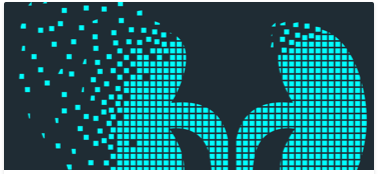
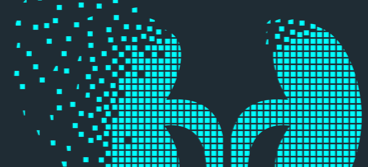
index fonts and spacings finished

diff --git a/pages/list.html b/pages/list.html
@@ -123,7 +123,7 @@
                 <div class="card card-sidenav">
                   <div class="card-body">
                     <img src="../img/details/statistics.png">
-                    <p class="card-title">Activity</p>
+                    <p class="card-title">Activity <span class="w3-badge">9</span> </p>
                   </div>
                 </div>
               </div>
@@ -158,18 +158,18 @@
           <table class="table">
             <thead>
               <tr>
-                <th> <img class="checkbox" src="../img/list/checkbox-on.png">  </th>
-                <th>Site</th>
-                <th>Email</th>
-                <th>Country</th>
-                <th>City</th>
-                <th class="center">Status</th>
+                <th> <img class="checkbox-top" src="../img/list/checkbox-on.png"> </th>
+                <th>Site <img class="expand" src="../img/list/expand.png" /> </th>
+                <th>Email <img class="expand" src="../img/list/expand.png" /> </th>
+                <th>Country <img class="expand" src="../img/list/expand.png" /> </th>
+                <th>City <img class="expand" src="../img/list/expand.png" /> </th>
+                <th class="center">Status <img class="expand" src="../img/list/expand.png" /> </th>
               </tr>
             </thead>
             <tbody>
               <tr>
                 <th scope="row">
-                  <img class="checkbox" src="../img/list/checkbox-off.png" />
+                  <img class="checkbox" id="1" src="../img/list/checkbox-off.png" />
                 </th>
                 <td class="bold pointer" onclick="openNav()">Something important</td>
                 <td>somethingelse@test.se</td>
@@ -182,7 +182,7 @@
               </tr>
               <tr>
                 <th scope="row">
-                  <img class="checkbox" src="../img/list/checkbox-off.png" />
+                  <img class="checkbox" id="2" src="../img/list/checkbox-off.png" />
                 </th>
                 <td class="bold">Le Bull Hospital de soleil</td>
                 <td>something@test.se</td>
@@ -195,7 +195,7 @@
               </tr>
               <tr>
                 <th scope="row">
-                  <img class="checkbox" src="../img/list/checkbox-off.png" />
+                  <img class="checkbox" id="3" src="../img/list/checkbox-off.png" />
                 </th>
                 <td class="bold">Lestats hospital de la cheese</td>
                 <td> someemail@test.se</td>
@@ -208,7 +208,7 @@
               </tr>
               <tr>
                 <th scope="row">
-                  <img class="checkbox" src="../img/list/checkbox-off.png" />
+                  <img class="checkbox" id="4" src="../img/list/checkbox-off.png" />
                 </th>
                 <td class="bold"> London Hospital</td>
                 <td> sherlock@test.se</td>
@@ -221,7 +221,7 @@
               </tr>
               <tr>
                 <th scope="row">
-                  <img class="checkbox" src="../img/list/checkbox-off.png" />
+                  <img class="checkbox" id="5" src="../img/list/checkbox-off.png" />
                 </th>
                 <td class="bold"> London Hospital</td>
                 <td> sherlock@test.se</td>
@@ -234,7 +234,7 @@
               </tr>
               <tr>
                 <th scope="row">
-                  <img class="checkbox" src="../img/list/checkbox-off.png" />
+                  <img class="checkbox" id="6" src="../img/list/checkbox-off.png" />
                 </th>
                 <td class="bold"> Hospital Berlin </td>
                 <td> sherlock@test.se</td>
@@ -247,7 +247,7 @@
               </tr>
               <tr>
                 <th scope="row">
-                  <img class="checkbox" src="../img/list/checkbox-off.png" />
+                  <img class="checkbox" id="7" src="../img/list/checkbox-off.png" />
                 </th>
                 <td class="bold"> Hospital de la Rue </td>
                 <td> sherlock@test.se</td>

diff --git a/css/new-age.css b/css/new-age.css
@@ -67,11 +67,84 @@ button.rounded-corners {
   font-weight: bold;
 }
 
+/* font definitions */
 
 .uppercase {
   text-transform: uppercase;
   font-weight: bold;
 }
+
+/* first page */
+
+h1.main-title{
+  font-family: 'Poppins', sans-serif;
+  font-weight: 400;
+  font-size: 25pt;
+  margin-top: 30px;
+}
+
+h3.main-title{
+  font-family: 'Poppins', sans-serif;
+  font-weight: 300;
+  text-transform: uppercase;
+  font-size: 16pt;
+}
+
+
+div.header-content {
+  margin-top: 5%;
+  line-height: 1.7em;
+}
+
+div.header-content p{
+  font-family: 'Poppins', sans-serif;
+  line-height: 2em;
+  font-size: 12pt;
+  font-weight: 100;
+  margin-top: 30px;
+}
+
+div.header-content button {
+  margin-top: 30px;
+}
+
+
+div.second-header p {
+  font-family: 'Poppins', sans-serif;
+  line-height: 2em;
+  font-size: 12pt;
+  font-weight: 300;
+  margin-top: 30px;
+}
+
+div.second-header h1 {
+  font-weight: 500;
+}
+
+button.btn-transparent span.margin-left{
+  margin-left: 5%;
+}
+
+section.studies div.card h5{
+  font-family: 'Poppins', sans-serif;
+  color: grey;
+  text-transform: uppercase;
+  font-weight: 400;
+  font-size: 10pt;
+}
+
+section.studies div.card h4.card-title{
+  font-family: 'Poppins', sans-serif;
+  font-weight: 550;
+  font-size: 14pt!important;
+}
+
+section.studies div.card p.card-text {
+  margin-top: 15px;
+}
+
+
+
 
 .list-page {
   height: 600px;
@@ -123,6 +196,15 @@ span.upper {
 
 img.carousel-image {
   width: 100%;
+}
+
+div.studies-row div.card {
+  box-shadow: 0 1px 3px rgba(0,0,0,0.12), 0 1px 2px rgba(0,0,0,0.24);
+  transition: all 0.3s cubic-bezier(.25,.8,.25,1);
+}
+
+div.studies-row div.card:hover {
+  box-shadow: 0 3px 9px rgba(0,0,0,0.12), 0 3px 6px rgba(0,0,0,0.24);
 }
 
 .table {
@@ -272,6 +354,7 @@ div.black {
 }
 section.studies {
   background: url("../img/background/bg-part-2.png") no-repeat, white;
+  background-size: 100% auto;
 }
 
 .table thead th {
@@ -284,6 +367,7 @@ nav.nabar-blue {
 
 div.carousel {
   background: url('../img/carousel/carousel-bg.png') center;
+
   background-repeat: no-repeat;
   margin-top: 100px;
 }
@@ -301,12 +385,19 @@ img.flag {
   cursor: pointer;
 }
 
-img.checkbox, img.status-img {
+img.checkbox, img.status-img, img.checkbox-top {
   width: 20px;
+  cursor: pointer;
 }
 
 .center {
   text-align: center;
+}
+
+img.expand {
+  width: 7px;
+  margin-left: 5px;
+  margin-top: -1px;
 }
 
 /* Custom Cards */
@@ -354,8 +445,9 @@ img.list-img {
     font-family: 'Lato', 'Helvetica', 'Arial', 'sans-serif';
     letter-spacing: 2px;
     text-transform: uppercase;
-    margin-right: 15px;
-    margin-left: 15px;
+    margin-right: 30px;
+    margin-left: 30px;
+    font-weight: bold;
   }
     #mainNav .navbar-nav > li > a.active {
       color: #fdcc52 !important;
@@ -404,7 +496,7 @@ header.masthead {
   padding-bottom: 50px;
   color: white;
   background: url("../img/background/bg-part-1.png") no-repeat, white;
-  background-width: 100vw;
+  background-size: 100% auto;
   header.masthead .header-content {
     max-width: 500px;
     margin-bottom: 100px;

diff --git a/index.html b/index.html
@@ -22,6 +22,7 @@
     <link href="https://fonts.googleapis.com/css?family=Lato" rel="stylesheet">
     <link href="https://fonts.googleapis.com/css?family=Catamaran:100,200,300,400,500,600,700,800,900" rel="stylesheet">
     <link href="https://fonts.googleapis.com/css?family=Muli" rel="stylesheet">
+    <link href="https://fonts.googleapis.com/css?family=Poppins:100,200,300,400,800" rel="stylesheet">
 
     <!-- Plugin CSS -->
     <link rel="stylesheet" href="device-mockups/device-mockup.css">
@@ -35,7 +36,7 @@
 
     <!-- Navigation -->
     <nav class="navbar navbar-expand-lg navbar-light fixed-top" id="mainNav">
-      <div class="container">
+      <div class="container-fluid">
         <a class="navbar-brand js-scroll-trigger" href="#page-top"><img src="img/logo/logo.png" /></a>
         <button class="navbar-toggler navbar-toggler-right" type="button" data-toggle="collapse" data-target="#navbarResponsive" aria-controls="navbarResponsive" aria-expanded="false" aria-label="Toggle navigation">
           Menu
@@ -68,8 +69,8 @@
         <div class="row h-100">
           <div class="col-lg-5">
             <div class="header-content mx-auto">
-              <h3> Chapter 1 </h3>
-              <h1 class="mb-5">Main important message</h1>
+              <h3 class="main-title"> Chapter 1 </h3>
+              <h1 class="main-title">Main important message</h1>
               <p> It was popularised in the 1960s with the release of Letraset sheets containing Lorem ipsum passages, and more recently with desktop publishing software like Aldus PageMaker including versions of Lorem Ipsum.</p>
               <div class="row">
                 <div class="col-md-5">
@@ -80,13 +81,13 @@
                 <div class="col-md-5">
                   <button type="button" class="btn-transparent rounded-corners js-scroll-trigger">
                     <img src="img/home/play.png">
-                    Read More
+                    <span class="margin-left"> Read More </span>
                   </button>
                 </div>
               </div>
             </div>
-            <div class="row mg-top-150 black">
-              <h1> Something important </h1>
+            <div class="row mg-top-150 black second-header">
+              <h1 class="main-title"> Something important </h1>
               <p> It was popularised in the 1960s with the release of Letraset sheets containing Lorem ipsum passages, and more recently with desktop publishing software like Aldus PageMaker including versions of Lorem Ipsum.</p>
             </div>
           </div>
@@ -105,8 +106,8 @@
     <section class="studies">
       <div class="container">
         <div class="center white mg-bottom-100 mg-top-100">
-          <h3> Studies </h3>
-          <h1> Chronic Diseases </h1>
+          <h3 class="main-title"> Studies </h3>
+          <h1 class="main-title"> Chronic Diseases </h1>
         </div>
         <div class="row studies-row">
           <div class="col-md-4">

diff --git a/js/side-menu.js b/js/side-menu.js
@@ -9,3 +9,34 @@ function closeNav() {
     document.getElementById("mySidenav").style.width = "0";
     //document.body.style.backgroundColor = "rgba(0,0,0,0)";
 }
+
+
+$(document).ready(function() {
+  // Select / Unselect all checkboxes
+  var checkboxesOn = false;
+  var checkboxes = [];
+
+  for (var i = 0; i < 7; i++) {
+    checkboxes.push(false);
+  }
+
+  $('.checkbox-top').click(function(){
+    checkboxesOn = !checkboxesOn;
+    if (checkboxesOn)
+      $('img.checkbox').attr("src", "../img/list/checkbox-on.png");
+    else
+      $('img.checkbox').attr("src", "../img/list/checkbox-off.png");
+  });
+
+  $('.checkbox').click(function() {
+    var index = $(this)[0].id - 1;
+    if (checkboxes[index] == false){
+      checkboxes[index] = true;
+      $(this)[0].src = "../img/list/checkbox-on.png";
+    } else {
+      checkboxes[index] = false;
+      $(this)[0].src =  "../img/list/checkbox-off.png";
+    }
+  });
+
+});

diff --git a/device-mockups/device-mockup.css b/device-mockups/device-mockup.css
@@ -43,8 +43,9 @@
 	position: absolute;
 	top: 0; bottom: 0; left: 0; right: 0;
 	width: 100%; height: 100%;
-	background-size: 130% 90%;
+	background-size: 130% auto;
 	background-repeat: no-repeat;
+
 	background-image: url("macbook/macbook.png");
 }
 
